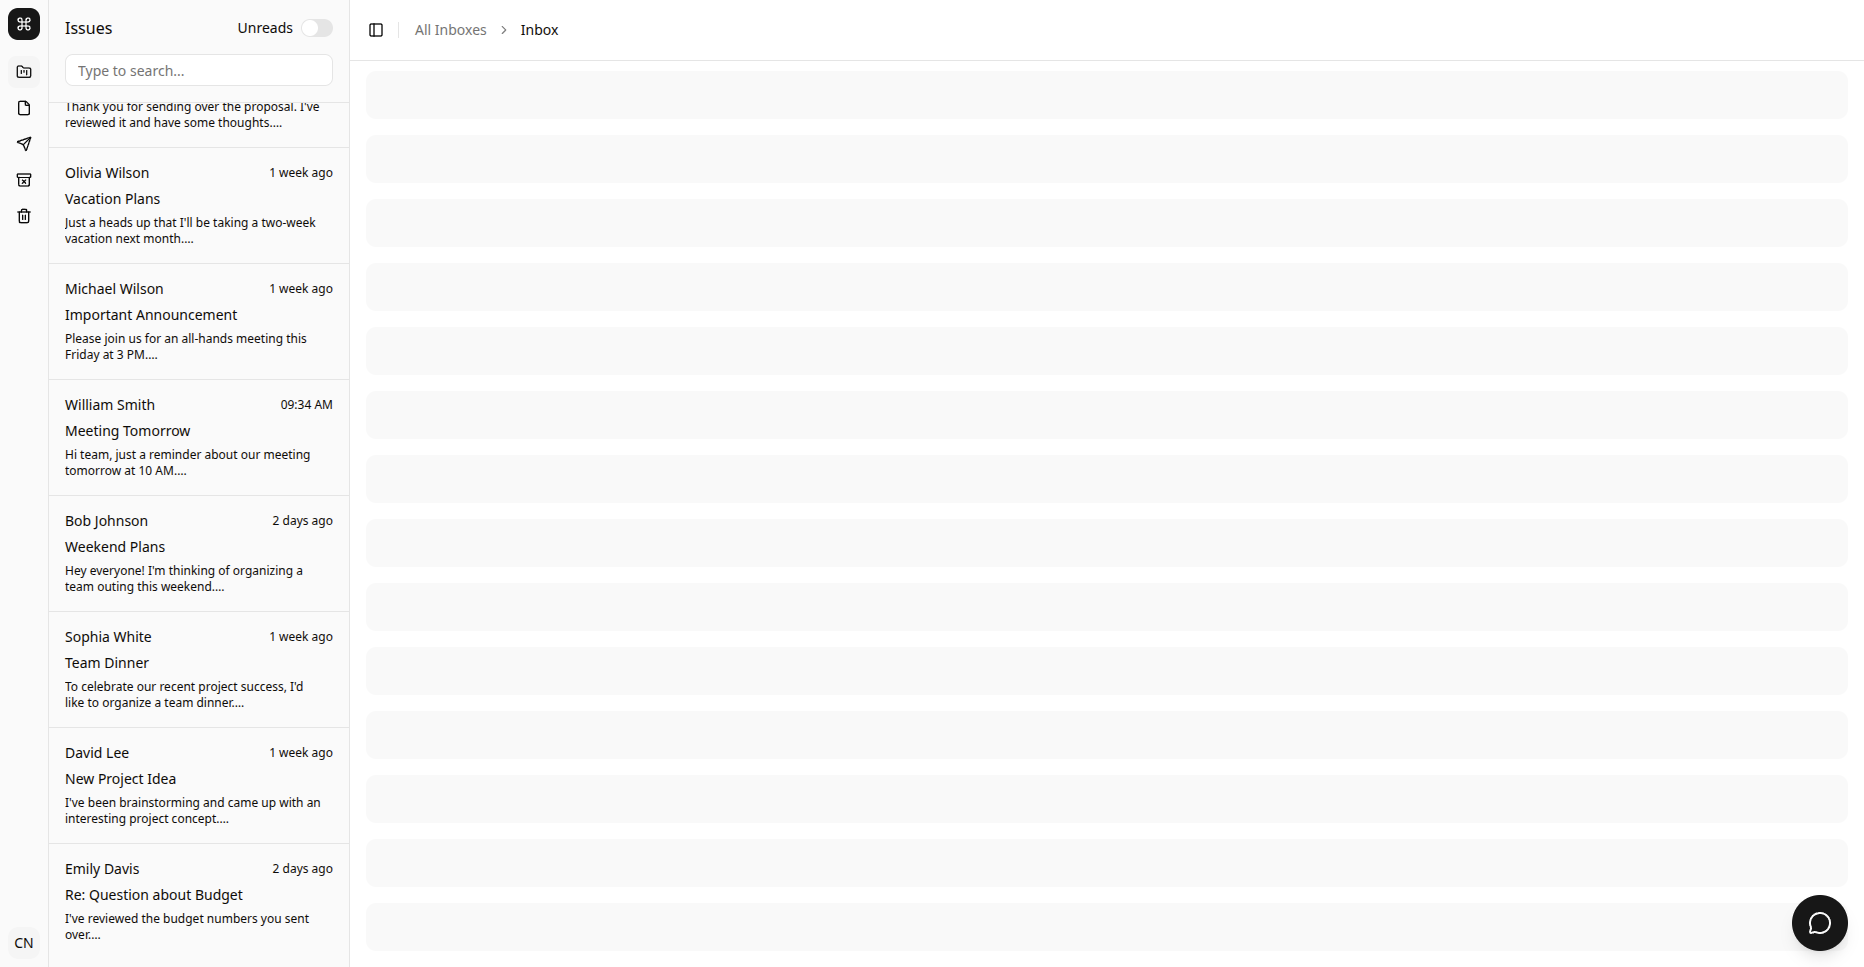
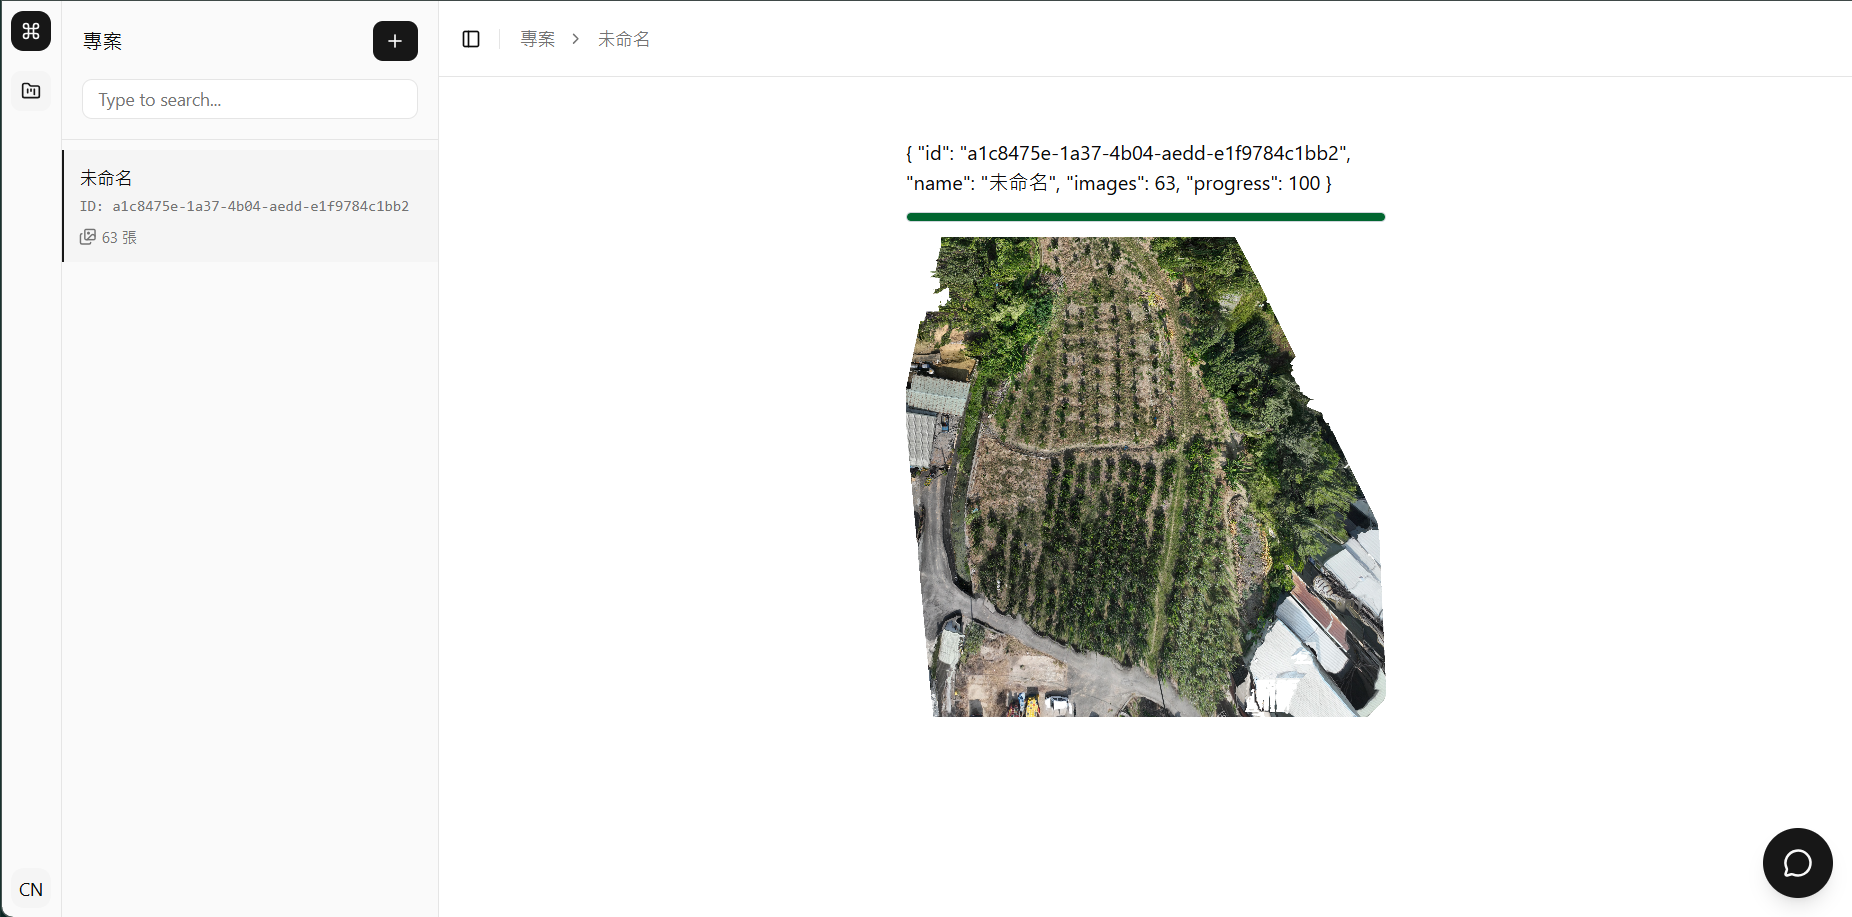
取得正射圖

diff --git a/frontend/src/App.vue b/frontend/src/App.vue
@@ -171,6 +171,9 @@ watch(selectedProject, () => {
       <div v-if="selectedProject" class="mx-auto flex w-full max-w-sm flex-col gap-3 py-12">
         {{ selectedProject }}
         <Progress :model-value="selectedProject.progress" />
+        <div v-if="selectedProject.progress === 100">
+          <img class="w-96 h-96 object-cover" :src="`/api/odm-task-orthophoto/${selectedProject.id}`" alt="">
+        </div>
       </div>
       <div v-if="!selectedProject" class="mx-auto flex w-full max-w-sm flex-col gap-3 py-12">
         <form @submit.prevent="hadleCreateProject" class="flex flex-col gap-5">

diff --git a/src/main.py b/src/main.py
@@ -1,6 +1,8 @@
 from __future__ import annotations as _annotations
 
 import os
+from zipfile import ZipFile
+from io import BytesIO
 from dotenv import load_dotenv
 
 load_dotenv()
@@ -22,6 +24,7 @@ import httpx
 from fastapi import Depends, Request, File, UploadFile, Form
 from fastapi.responses import FileResponse, Response, StreamingResponse
 from typing_extensions import LiteralString, ParamSpec, TypedDict
+from PIL import Image
 from pydantic import BaseModel
 from pydantic_ai import (
     Agent,
@@ -189,6 +192,18 @@ async def get_odm_task_info(task_id: str, database: Database = Depends(get_db)):
         "data": project
     }
     return response
+
+@app.get("/odm-task-orthophoto/{task_id}")
+async def get_odm_task_orthophoto(task_id: str):
+    async with httpx.AsyncClient() as client:
+        r = await client.get(f"http://localhost:3000/task/{task_id}/download/all.zip", timeout=120.0)
+    zip_file = r.content
+    outfile = BytesIO()
+    with ZipFile(BytesIO(zip_file)) as z:
+        with z.open('odm_orthophoto/odm_orthophoto.tif') as target:
+            with Image.open(target) as im:
+                im.save(outfile, 'PNG')
+    return Response(outfile.getvalue(), media_type="image/png")
 
 @app.get("/odm-task-list")
 async def get_odm_task_list(database: Database = Depends(get_db)):

diff --git a/REFERENCE.md b/REFERENCE.md
@@ -48,3 +48,8 @@
 - [NodeODM API 文件](https://github.com/OpenDroneMap/NodeODM/blob/master/docs/index.adoc)
 - [HTTPX 發送被表單包裝的檔案](https://www.python-httpx.org/quickstart/#sending-multipart-file-uploads)
 - [sqlite3 一次執行多行命令](https://docs.python.org/3/library/sqlite3.html#:~:text=executescript(%22%22%22)
+- [FastAPI 可以回傳二進制資料](https://fastapi.tiangolo.com/advanced/custom-response/#available-responses)
+- [HTTPX 可以對回應進行二進制解讀](https://www.python-httpx.org/quickstart/#binary-response-content)
+- [Python zipfile 套件只能處理檔案路徑或檔案物件](https://docs.python.org/3/library/zipfile.html#:~:text=where%20file%20can%20be%20a%20path)
+- [Python 認定 io 物件為檔案物件](https://docs.python.org/3/library/io.html#:~:text=A%20concrete%20object%20belonging%20to%20any%20of%20these%20categories%20is%20called%20a%20file%20object)
+- [HTTP tif 檔的 media type](https://developer.mozilla.org/zh-TW/docs/Web/HTTP/Guides/MIME_types/Common_types#:~:text=image/tiff)
